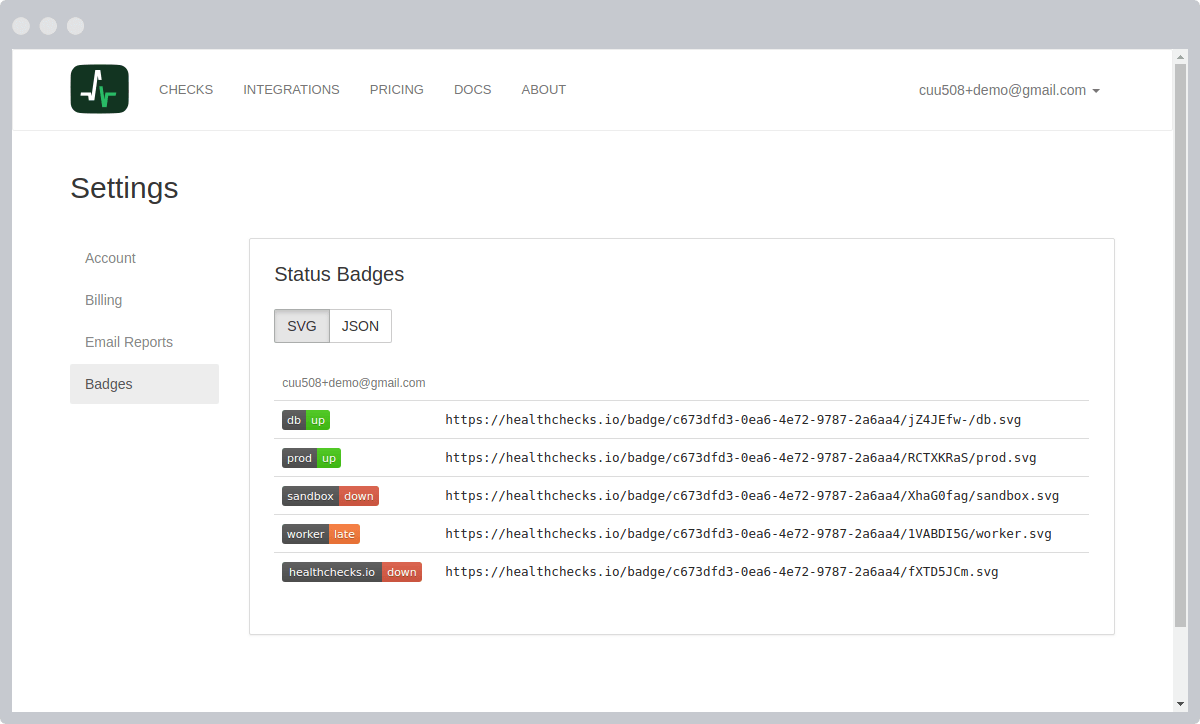
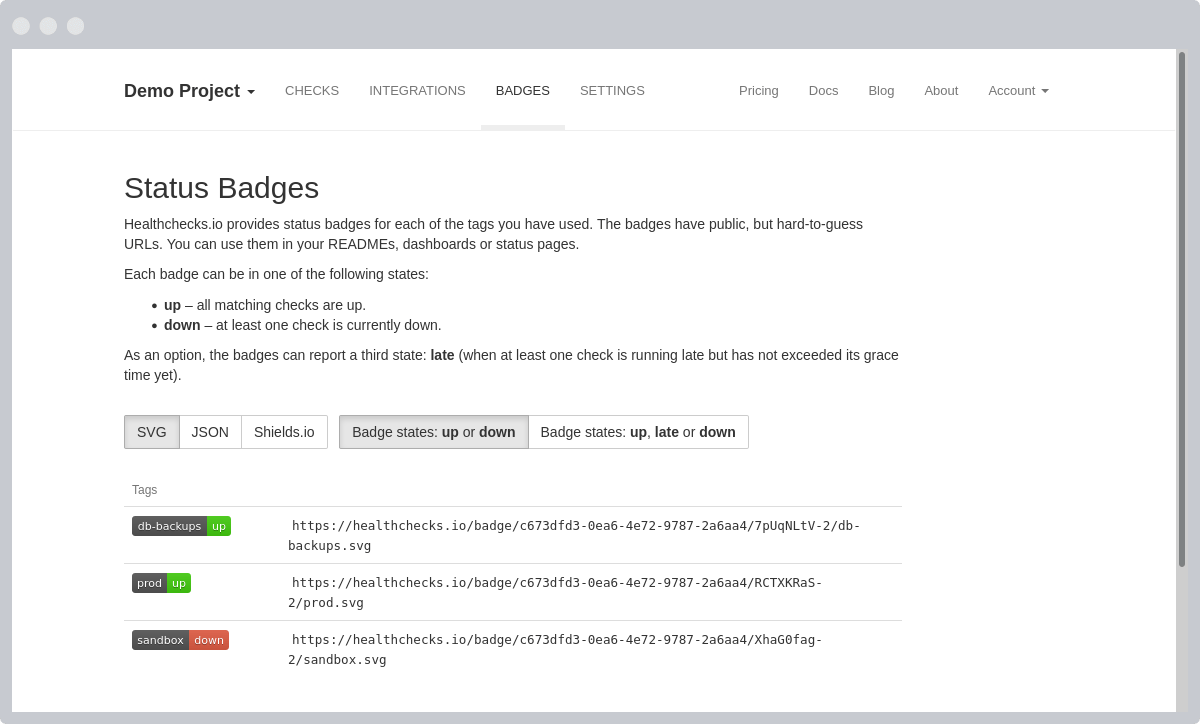
Update screenshots

diff --git a/README.md b/README.md
@@ -4,15 +4,15 @@
 [![Coverage Status](https://coveralls.io/repos/healthchecks/healthchecks/badge.svg?branch=master&service=github)](https://coveralls.io/github/healthchecks/healthchecks?branch=master)
 
 
-![Screenshot of Welcome page](/static/img/welcome.png?raw=true "Welcome Page")
-
 ![Screenshot of My Checks page](/static/img/my_checks.png?raw=true "My Checks Page")
 
 ![Screenshot of Period/Grace dialog](/static/img/period_grace.png?raw=true "Period/Grace Dialog")
 
 ![Screenshot of Cron dialog](/static/img/cron.png?raw=true "Cron Dialog")
 
-![Screenshot of Integrations page](/static/img/channels.png?raw=true "Integrations Page")
+![Screenshot of Check Details page](/static/img/check_details.png?raw=true "My Checks Page")
+
+![Screenshot of Badges page](/static/img/badges.png?raw=true "Integrations Page")
 
 Healthchecks is a cron job monitoring service. It listens for HTTP requests
 and email messages ("pings") from your cron jobs and scheduled tasks ("checks").
